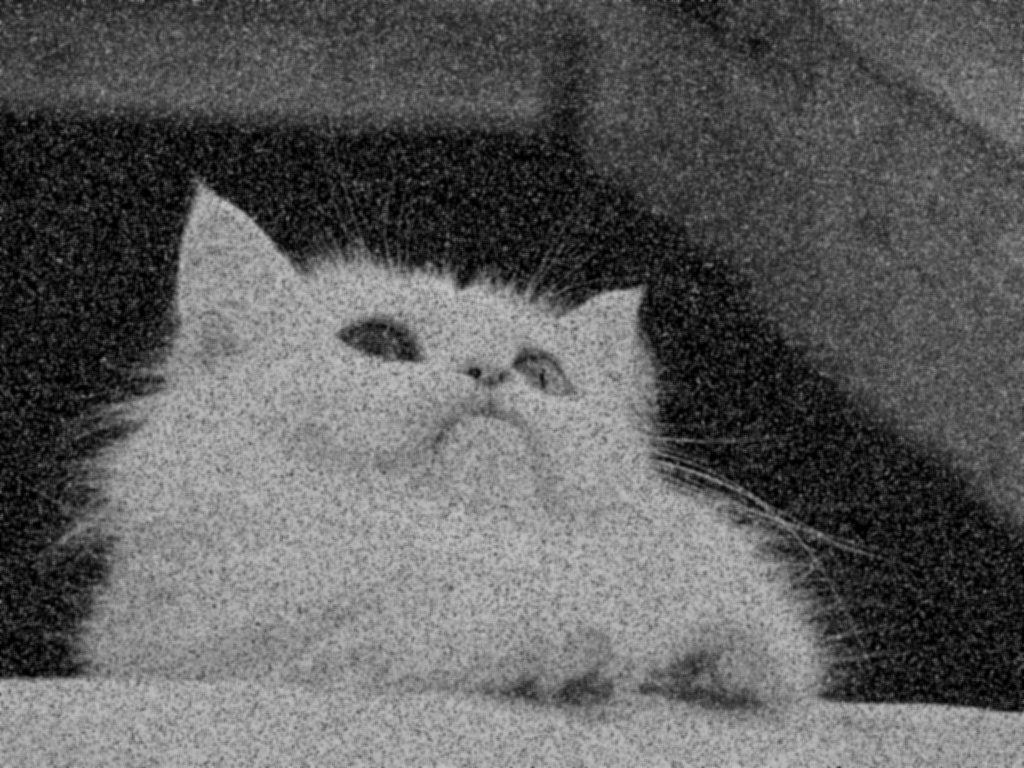
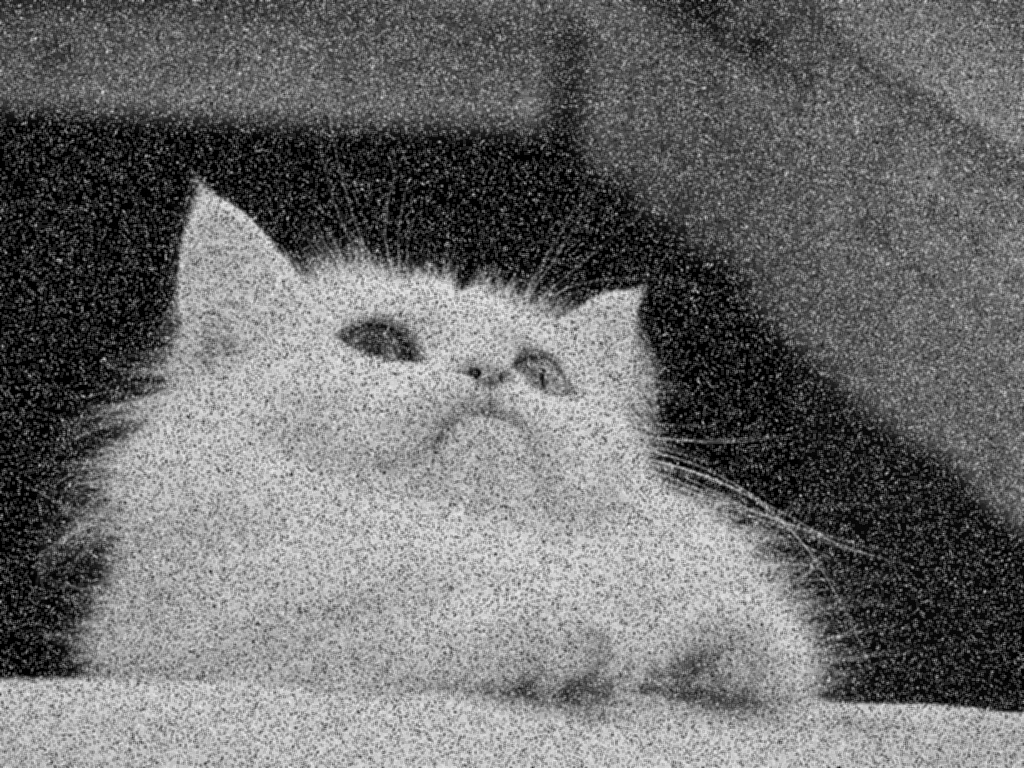
gaus

Changed region(s): [[0.0, 0.0, 1.0, 1.0], [0.0312, 0.2812, 0.0625, 0.3438], [0.0312, 0.375, 0.0625, 0.4062]]

diff --git a/Lab2/Lab2/main.cpp b/Lab2/Lab2/main.cpp
@@ -51,7 +51,7 @@ int main()
     t1.reset();
     try
     {
-        gaussianImage = gaussian(greyImage, 3);
+        gaussianImage = gaussian(greyImage, 1, 3);
     }
     catch (const char* message)
     {
